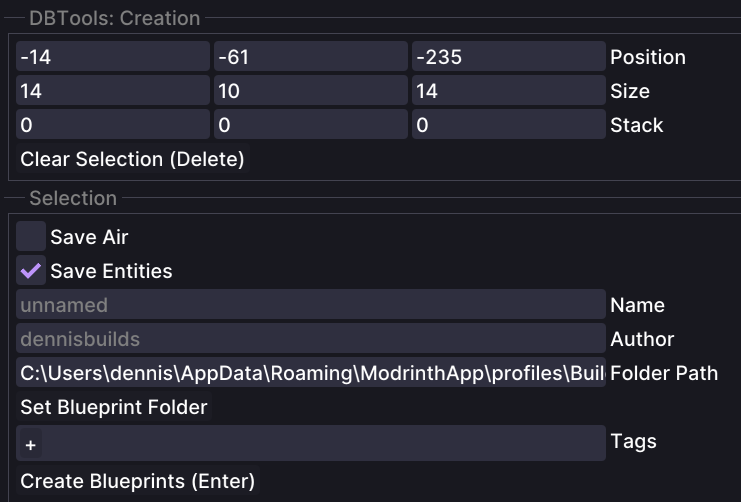
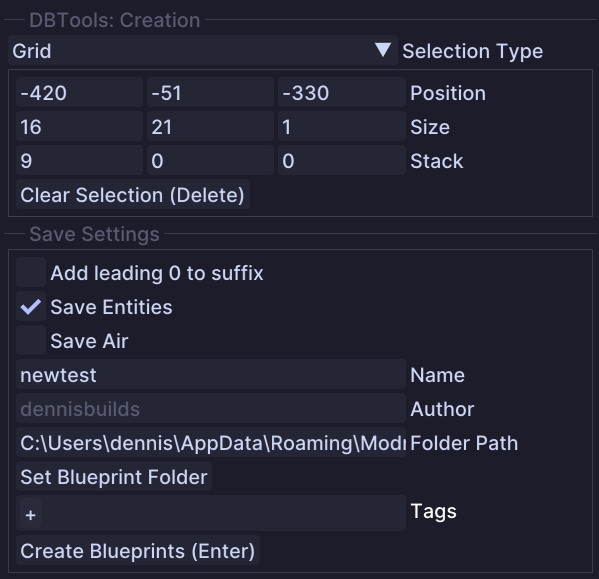
updated README.md

diff --git a/README.md b/README.md
@@ -68,18 +68,31 @@ DBTools is a mod for Axiom that provides various tools to enhance the developmen
 ## Create Tool
 
 ### Usage
-- The Create Tool allows you to create multiple blueprints of assets which are aligned in a grid pattern
-- Its basically a combination of Axiom functionalities: Box Select, Copy & Save Blueprint  
+- The Create Tool allows you to create multiple blueprints of assets
+- It's basically a combination of Axiom functionalities: Box Select or Magic Select, Copy & Save Blueprint
+- Grid selection works as follows: 
+  - You select a box use the mouse wheel to stack the selection in a direction left/ right/ up/ down or the `Stack` settings
 ![CreateTool_1.png](media/CreateTool_1.png)
-- Once the tool is selected you can draw your selection in the world
-- Either use the mouse wheel to stack the selection in a direction left/ right/ up/ down or the tool options  
 ![CreateTool_2.png](media/CreateTool_2.png)
-- When all settings are set, you press `Enter` to create the blueprints in the selected folder
+- Magic selection works as follows:
+  - You select only one box for all assets and the tool use Magic Select to all connected blocks
+  - The mouse wheel will adjust the size of the selection box, like in the Box Select Tool of Axiom
+  - Be aware that the Magic Select will select all connected blocks, your assets should not be connected to other blocks, otherwise the tool will select them as well (even outside the selected box)
+![CreateTool_3.png](media/CreateTool_3.png)
+![CreateTool_4.png](media/CreateTool_4.png)
+- When all settings are done, you press `Enter` to create the blueprints in the selected folder
+- If a blueprint name already exist in the target folder, the tool will automatically search for the highest suffix and continue counting from there
 
 ### Tool Options
+- `Selection Type`: There are two selection types available:
+  - `Grid`: This is the default selection type, it allows you to select a box in the world
+  - `Magic`: This selection type allows you to select blocks in a more flexible way, similar to the Magic Select tool in Axiom
 - `Position/ Size/ Stack`: These are the settings for the selection box. Use the mouse wheel to adjust the values or type in the values manually
 - `Clear Selection`: Clears the current selection
-- `Save Air`: If enabled, the tool will save air blocks
+- `Save Air`: If enabled, the tool will save air blocks 
+  - This is only during Grid selection available, it will not save air blocks in Magic selection
+- `Add leading 0 to suffix`: If enabled, the tool will add a leading 0 to the suffix of the blueprints
+  - You basically set the amount of digits for the suffix, so it will look like this: `blueprint_0001.bp`, `blueprint_0002.bp`, etc.
 - `Save Entities`: If enabled, the tool will save entities
   - Entity saving can take a while, depending on the amount of entities in the selection
 - `Name`: The name of the blueprint to be created. For every blueprint a simple suffix will be counted up
